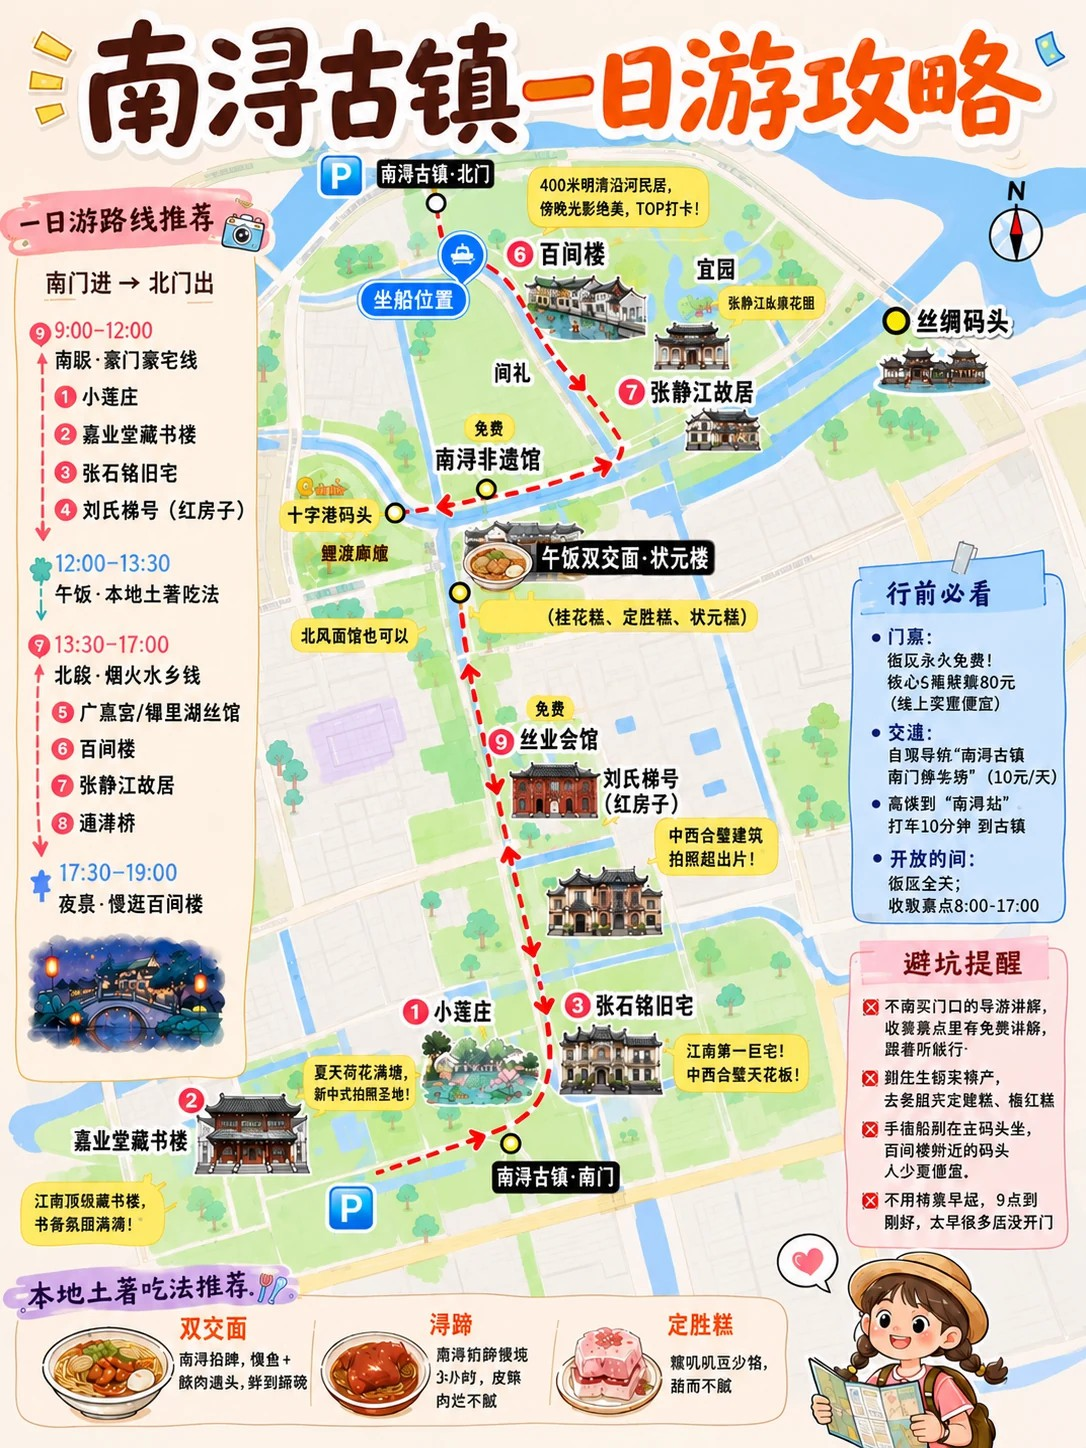
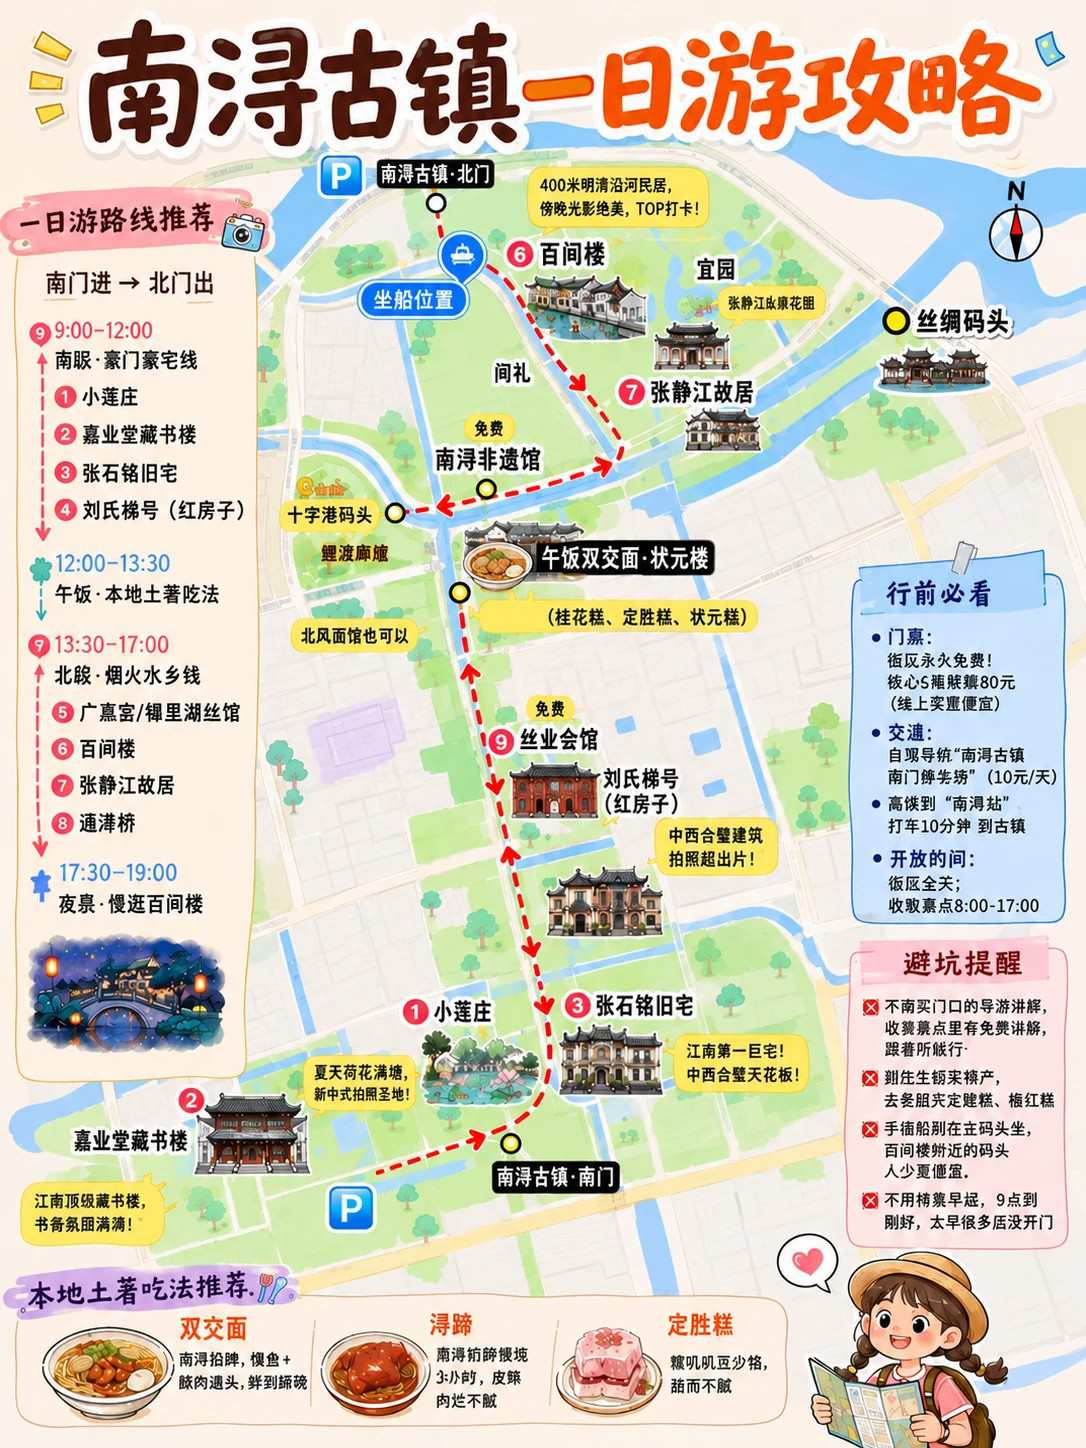
feat:图片优化

diff --git a/frontend/miniprogram/config.ts b/frontend/miniprogram/config.ts
@@ -1,5 +1,5 @@
 /** 本机真机调试地址；手机需与开发电脑同一局域网。正式部署时改为已备案的 HTTPS 合法域名。 */
-export const API_BASE_URL = 'http://192.168.1.7:8080'
+export const API_BASE_URL = 'http://192.168.1.11:8080'
 export const DEFAULT_AVATAR_PATH = '/assets/member-default-avatar.jpg'
 /** 小程序统一展示的民宿地址。 */
 export const STORE_ADDRESS = '南浔古镇宝善街167号'
